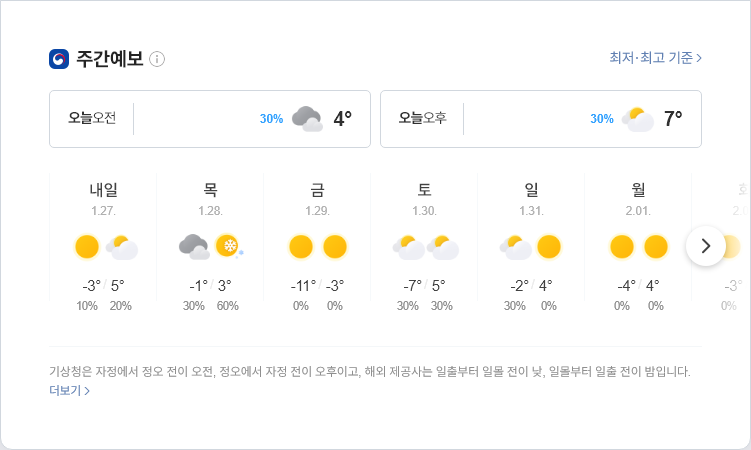
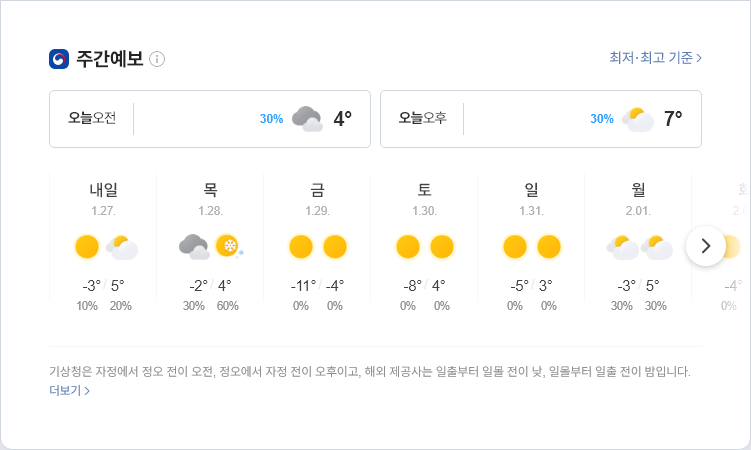
update result

diff --git a/README.md b/README.md
@@ -1,5 +1,5 @@
-##  2021-01-26 05:54:44   화요일 
-##### 날씨   -   어제보다 6° 높아요흐림  
+##  2021-01-26 09:16:47   화요일 
+##### 날씨   -   어제보다 3° 낮아요비  
 <center><img src="../img/naver_weather_week.png"></center>
 ----
 ----
@@ -13,9 +13,9 @@
 ##### 세계
 <table border="1" bordercolor="blue" align = "center" >
 <tr align = "right" > <td>Item</td><td>Point</td><td>Diff</td><td>Rate</td><td>Buy</td><td>Sell</td><td>...</td>  </tr>
-<tr align = "right" > <td>DOW</td><td>30,870.85</td><td>-126.13</td><td><font size="3" color="blue" >-0.41%</font></td><td><font size="3" color="black">0</font></td><td><font size="3" color="black">0</font></td><td>0</td>  </tr>
-<tr align = "right" > <td>NASDAQ</td><td>13,577.84</td><td>34.78</td><td><font size="3" color="red" >0.26%</font></td><td><font size="3" color="black">0</font></td><td><font size="3" color="black">0</font></td><td>0</td>  </tr>
-<tr align = "right" > <td>S&P</td><td>3,847.09</td><td>5.62</td><td><font size="3" color="red" >0.15%</font></td><td><font size="3" color="black">0</font></td><td><font size="3" color="black">0</font></td><td>0</td>  </tr>
+<tr align = "right" > <td>DOW</td><td>30,960.0</td><td>-36.98</td><td><font size="3" color="blue" >-0.12%</font></td><td><font size="3" color="black">0</font></td><td><font size="3" color="black">0</font></td><td>0</td>  </tr>
+<tr align = "right" > <td>NASDAQ</td><td>13,635.99</td><td>92.93</td><td><font size="3" color="red" >0.69%</font></td><td><font size="3" color="black">0</font></td><td><font size="3" color="black">0</font></td><td>0</td>  </tr>
+<tr align = "right" > <td>S&P</td><td>3,855.36</td><td>13.89</td><td><font size="3" color="red" >0.36%</font></td><td><font size="3" color="black">0</font></td><td><font size="3" color="black">0</font></td><td>0</td>  </tr>
 <tr align = "right" > <td>SHANHAI</td><td>3,624.24</td><td>17.49</td><td><font size="3" color="red" >0.48%</font></td><td><font size="3" color="black">0</font></td><td><font size="3" color="black">0</font></td><td>0</td>  </tr>
 <tr align = "right" > <td>INDIA</td><td>48,347.59</td><td>-530.95</td><td><font size="3" color="blue" >-1.09%</font></td><td><font size="3" color="black">0</font></td><td><font size="3" color="black">0</font></td><td>0</td>  </tr>
 </table>
@@ -23,33 +23,33 @@
 ##### 시장
 <table border="1" bordercolor="blue" align = "center" >
 <tr align = "right" > <td>Item</td><td>Price</td><td>Diff</td><td>Rate</td><td>Buy</td><td>Sell</td><td>...</td>  </tr>
-<tr align = "right" > <td>USD</td><td>1,102.0</td><td>-2.5</td><td><font size="3" color="blue">-0.23%</font></td><td><font size="3" color="orangered">1,110</font></td><td><font size="3" color="black">0</font></td><td>0</td>  </tr>
-<tr align = "right" > <td>WTI</td><td>52.27</td><td>-0.86</td><td><font size="3" color="blue">-1.61%</font></td><td><font size="3" color="black">29.0</font></td><td><font size="3" color="black">0</font></td><td>0</td>  </tr>
-<tr align = "right" > <td>GOLD</td><td>1,856.0</td><td>-9.7</td><td><font size="3" color="blue">-0.51%</font></td><td><font size="3" color="black">0</font></td><td><font size="3" color="black">0</font></td><td>0</td>  </tr>
+<tr align = "right" > <td>USD</td><td>1,102.0</td><td>-0.5</td><td><font size="3" color="blue">-0.05%</font></td><td><font size="3" color="orangered">1,110</font></td><td><font size="3" color="black">0</font></td><td>0</td>  </tr>
+<tr align = "right" > <td>WTI</td><td>52.77</td><td>0.5</td><td><font size="3" color="red">0.95%</font></td><td><font size="3" color="black">29.0</font></td><td><font size="3" color="black">0</font></td><td>0</td>  </tr>
+<tr align = "right" > <td>GOLD</td><td>1,855.0</td><td>-1.0</td><td><font size="3" color="blue">-0.05%</font></td><td><font size="3" color="black">0</font></td><td><font size="3" color="black">0</font></td><td>0</td>  </tr>
 </table>
 ----
 ##### 주가
 <table border="1" bordercolor="blue" align = "center" >
 <tr align = "right" > <td>Item</td><td>Price</td><td>Diff</td><td>Rate</td><td>Purchased</td><td>Sell</td><td>Buy</td>  </tr>
-<tr align = "right" > <td>한국 전력</td><td>24,450</td><td>300</td><td><font size="3" color="red">1.24%</font></td><td>25,720</td><td><font size="3" color="black">27,700</font></td><td><font size="3" color="black">20,700</font></td>  </tr>
-<tr align = "right" > <td>삼성엔지니어.</td><td>13,550</td><td>200</td><td><font size="3" color="red">1.5%</font></td><td>18,935</td><td><font size="3" color="black">20,000</font></td><td><font size="3" color="black">8,000</font></td>  </tr>
-<tr align = "right" > <td>CJ CGV</td><td>29,950</td><td>1,250</td><td><font size="3" color="red">4.36%</font></td><td>34,895</td><td><font size="3" color="black">36,000</font></td><td><font size="3" color="black">0</font></td>  </tr>
-<tr align = "right" > <td>아모레퍼시픽</td><td>246,000</td><td>8,000</td><td><font size="3" color="red">3.36%</font></td><td>235,350</td><td><font size="3" color="black">240,000</font></td><td><font size="3" color="black">130,000</font></td>  </tr>
-<tr align = "right" > <td>한화</td><td>34,600</td><td>100</td><td><font size="3" color="red">0.29%</font></td><td>25,550</td><td><font size="3" color="black">26,250</font></td><td><font size="3" color="black">26,250</font></td>  </tr>
-<tr align = "right" > <td>NAVER</td><td>349,000</td><td>5,500</td><td><font size="3" color="red">1.6%</font></td><td>147,200</td><td><font size="3" color="black">386,000</font></td><td><font size="3" color="black">286,000</font></td>  </tr>
-<tr align = "right" > <td>LG 화학우</td><td>496,500</td><td>2,500</td><td><font size="3" color="red">0.51%</font></td><td>202,490</td><td><font size="3" color="black">384,000</font></td><td><font size="3" color="black">384,000</font></td>  </tr>
-<tr align = "right" > <td>스튜디오드래.</td><td>108,500</td><td>-700</td><td><font size="3" color="blue">-0.64%</font></td><td>81,243</td><td><font size="3" color="black">85,200</font></td><td><font size="3" color="black">85,200</font></td>  </tr>
-<tr align = "right" > <td>QV미국IT</td><td>26,345</td><td>475</td><td><font size="3" color="red">1.84%</font></td><td>0</td><td><font size="3" color="black">30,000</font></td><td><font size="3" color="black">20,000</font></td>  </tr>
-<tr align = "right" > <td>삼성 전자우</td><td>79,200</td><td>1,600</td><td><font size="3" color="red">2.06%</font></td><td>48,250</td><td><font size="3" color="black">56,000</font></td><td><font size="3" color="black">45,000</font></td>  </tr>
-<tr align = "right" > <td>LS</td><td>74,200</td><td>-1,300</td><td><font size="3" color="blue">-1.72%</font></td><td>71,400</td><td><font size="3" color="black">82,000</font></td><td><font size="3" color="black">60,000</font></td>  </tr>
-<tr align = "right" > <td>한화에어로스.</td><td>43,050</td><td>3,150</td><td><font size="3" color="red">7.89%</font></td><td>25,700</td><td><font size="3" color="black">30,000</font></td><td><font size="3" color="black">24,000</font></td>  </tr>
-<tr align = "right" > <td>카카오</td><td>473,500</td><td>10,500</td><td><font size="3" color="red">2.27%</font></td><td>405,500</td><td><font size="3" color="black">440,000</font></td><td><font size="3" color="black">400,000</font></td>  </tr>
-<tr align = "right" > <td>호텔 신라</td><td>88,500</td><td>400</td><td><font size="3" color="red">0.45%</font></td><td>72,800</td><td><font size="3" color="black">100,000</font></td><td><font size="3" color="black">70,000</font></td>  </tr>
-<tr align = "right" > <td>S-Oil</td><td>72,600</td><td>-400</td><td><font size="3" color="blue">-0.55%</font></td><td>62,842</td><td><font size="3" color="black">100,000</font></td><td><font size="3" color="black">50,000</font></td>  </tr>
-<tr align = "right" > <td>LG전자</td><td>178,000</td><td>500</td><td><font size="3" color="red">0.28%</font></td><td>82,022</td><td><font size="3" color="black">100,000</font></td><td><font size="3" color="black">60,000</font></td>  </tr>
-<tr align = "right" > <td>지역난방공사</td><td>39,250</td><td>-50</td><td><font size="3" color="blue">-0.13%</font></td><td>43,590</td><td><font size="3" color="black">60,000</font></td><td><font size="3" color="black">30,000</font></td>  </tr>
-<tr align = "right" > <td>KOEDX은행</td><td>6,365</td><td>-5</td><td><font size="3" color="blue">-0.08%</font></td><td>5,178</td><td><font size="3" color="black">6,225</font></td><td><font size="3" color="black">6,225</font></td>  </tr>
-<tr align = "right" > <td>글로벌럭셔리</td><td>15,325</td><td>45</td><td><font size="3" color="red">0.29%</font></td><td>15,260</td><td><font size="3" color="black">20,000</font></td><td><font size="3" color="black">10,000</font></td>  </tr>
-<tr align = "right" > <td>한국금융지주</td><td>88,100</td><td>1,300</td><td><font size="3" color="red">1.5%</font></td><td>0</td><td><font size="3" color="black">82,000</font></td><td><font size="3" color="black">60,000</font></td>  </tr>
+<tr align = "right" > <td>한국 전력</td><td>24,300</td><td>-150</td><td><font size="3" color="blue">-0.61%</font></td><td>25,720</td><td><font size="3" color="black">27,700</font></td><td><font size="3" color="black">20,700</font></td>  </tr>
+<tr align = "right" > <td>삼성엔지니어.</td><td>13,450</td><td>-100</td><td><font size="3" color="blue">-0.74%</font></td><td>18,935</td><td><font size="3" color="black">20,000</font></td><td><font size="3" color="black">8,000</font></td>  </tr>
+<tr align = "right" > <td>CJ CGV</td><td>29,700</td><td>-250</td><td><font size="3" color="blue">-0.83%</font></td><td>34,895</td><td><font size="3" color="black">36,000</font></td><td><font size="3" color="black">0</font></td>  </tr>
+<tr align = "right" > <td>아모레퍼시픽</td><td>242,500</td><td>-3,500</td><td><font size="3" color="blue">-1.42%</font></td><td>235,350</td><td><font size="3" color="black">240,000</font></td><td><font size="3" color="black">130,000</font></td>  </tr>
+<tr align = "right" > <td>한화</td><td>35,700</td><td>1,100</td><td><font size="3" color="red">3.18%</font></td><td>25,550</td><td><font size="3" color="black">26,250</font></td><td><font size="3" color="black">26,250</font></td>  </tr>
+<tr align = "right" > <td>NAVER</td><td>345,000</td><td>-4,000</td><td><font size="3" color="blue">-1.15%</font></td><td>147,200</td><td><font size="3" color="black">386,000</font></td><td><font size="3" color="black">286,000</font></td>  </tr>
+<tr align = "right" > <td>LG 화학우</td><td>497,000</td><td>500</td><td><font size="3" color="red">0.1%</font></td><td>202,490</td><td><font size="3" color="black">384,000</font></td><td><font size="3" color="black">384,000</font></td>  </tr>
+<tr align = "right" > <td>스튜디오드래.</td><td>107,700</td><td>-800</td><td><font size="3" color="blue">-0.74%</font></td><td>81,243</td><td><font size="3" color="black">85,200</font></td><td><font size="3" color="black">85,200</font></td>  </tr>
+<tr align = "right" > <td>QV미국IT</td><td>26,360</td><td>15</td><td><font size="3" color="red">0.06%</font></td><td>0</td><td><font size="3" color="black">30,000</font></td><td><font size="3" color="black">20,000</font></td>  </tr>
+<tr align = "right" > <td>삼성 전자우</td><td>79,000</td><td>-200</td><td><font size="3" color="blue">-0.25%</font></td><td>48,250</td><td><font size="3" color="black">56,000</font></td><td><font size="3" color="black">45,000</font></td>  </tr>
+<tr align = "right" > <td>LS</td><td>72,100</td><td>-2,100</td><td><font size="3" color="blue">-2.83%</font></td><td>71,400</td><td><font size="3" color="black">82,000</font></td><td><font size="3" color="black">60,000</font></td>  </tr>
+<tr align = "right" > <td>한화에어로스.</td><td>42,400</td><td>-650</td><td><font size="3" color="blue">-1.51%</font></td><td>25,700</td><td><font size="3" color="black">30,000</font></td><td><font size="3" color="black">24,000</font></td>  </tr>
+<tr align = "right" > <td>카카오</td><td>464,500</td><td>-9,000</td><td><font size="3" color="blue">-1.9%</font></td><td>405,500</td><td><font size="3" color="black">440,000</font></td><td><font size="3" color="black">400,000</font></td>  </tr>
+<tr align = "right" > <td>호텔 신라</td><td>86,900</td><td>-1,600</td><td><font size="3" color="blue">-1.81%</font></td><td>72,800</td><td><font size="3" color="black">100,000</font></td><td><font size="3" color="black">70,000</font></td>  </tr>
+<tr align = "right" > <td>S-Oil</td><td>71,700</td><td>-900</td><td><font size="3" color="blue">-1.24%</font></td><td>62,842</td><td><font size="3" color="black">100,000</font></td><td><font size="3" color="black">50,000</font></td>  </tr>
+<tr align = "right" > <td>LG전자</td><td>179,500</td><td>1,500</td><td><font size="3" color="red">0.84%</font></td><td>82,022</td><td><font size="3" color="black">100,000</font></td><td><font size="3" color="black">60,000</font></td>  </tr>
+<tr align = "right" > <td>지역난방공사</td><td>39,000</td><td>-250</td><td><font size="3" color="blue">-0.64%</font></td><td>43,590</td><td><font size="3" color="black">60,000</font></td><td><font size="3" color="black">30,000</font></td>  </tr>
+<tr align = "right" > <td>KOEDX은행</td><td>6,325</td><td>-40</td><td><font size="3" color="blue">-0.63%</font></td><td>5,178</td><td><font size="3" color="black">6,225</font></td><td><font size="3" color="black">6,225</font></td>  </tr>
+<tr align = "right" > <td>글로벌럭셔리</td><td>15,105</td><td>-220</td><td><font size="3" color="blue">-1.44%</font></td><td>15,260</td><td><font size="3" color="black">20,000</font></td><td><font size="3" color="black">10,000</font></td>  </tr>
+<tr align = "right" > <td>한국금융지주</td><td>88,600</td><td>500</td><td><font size="3" color="red">0.57%</font></td><td>0</td><td><font size="3" color="black">82,000</font></td><td><font size="3" color="black">60,000</font></td>  </tr>
 </table>
 ----
